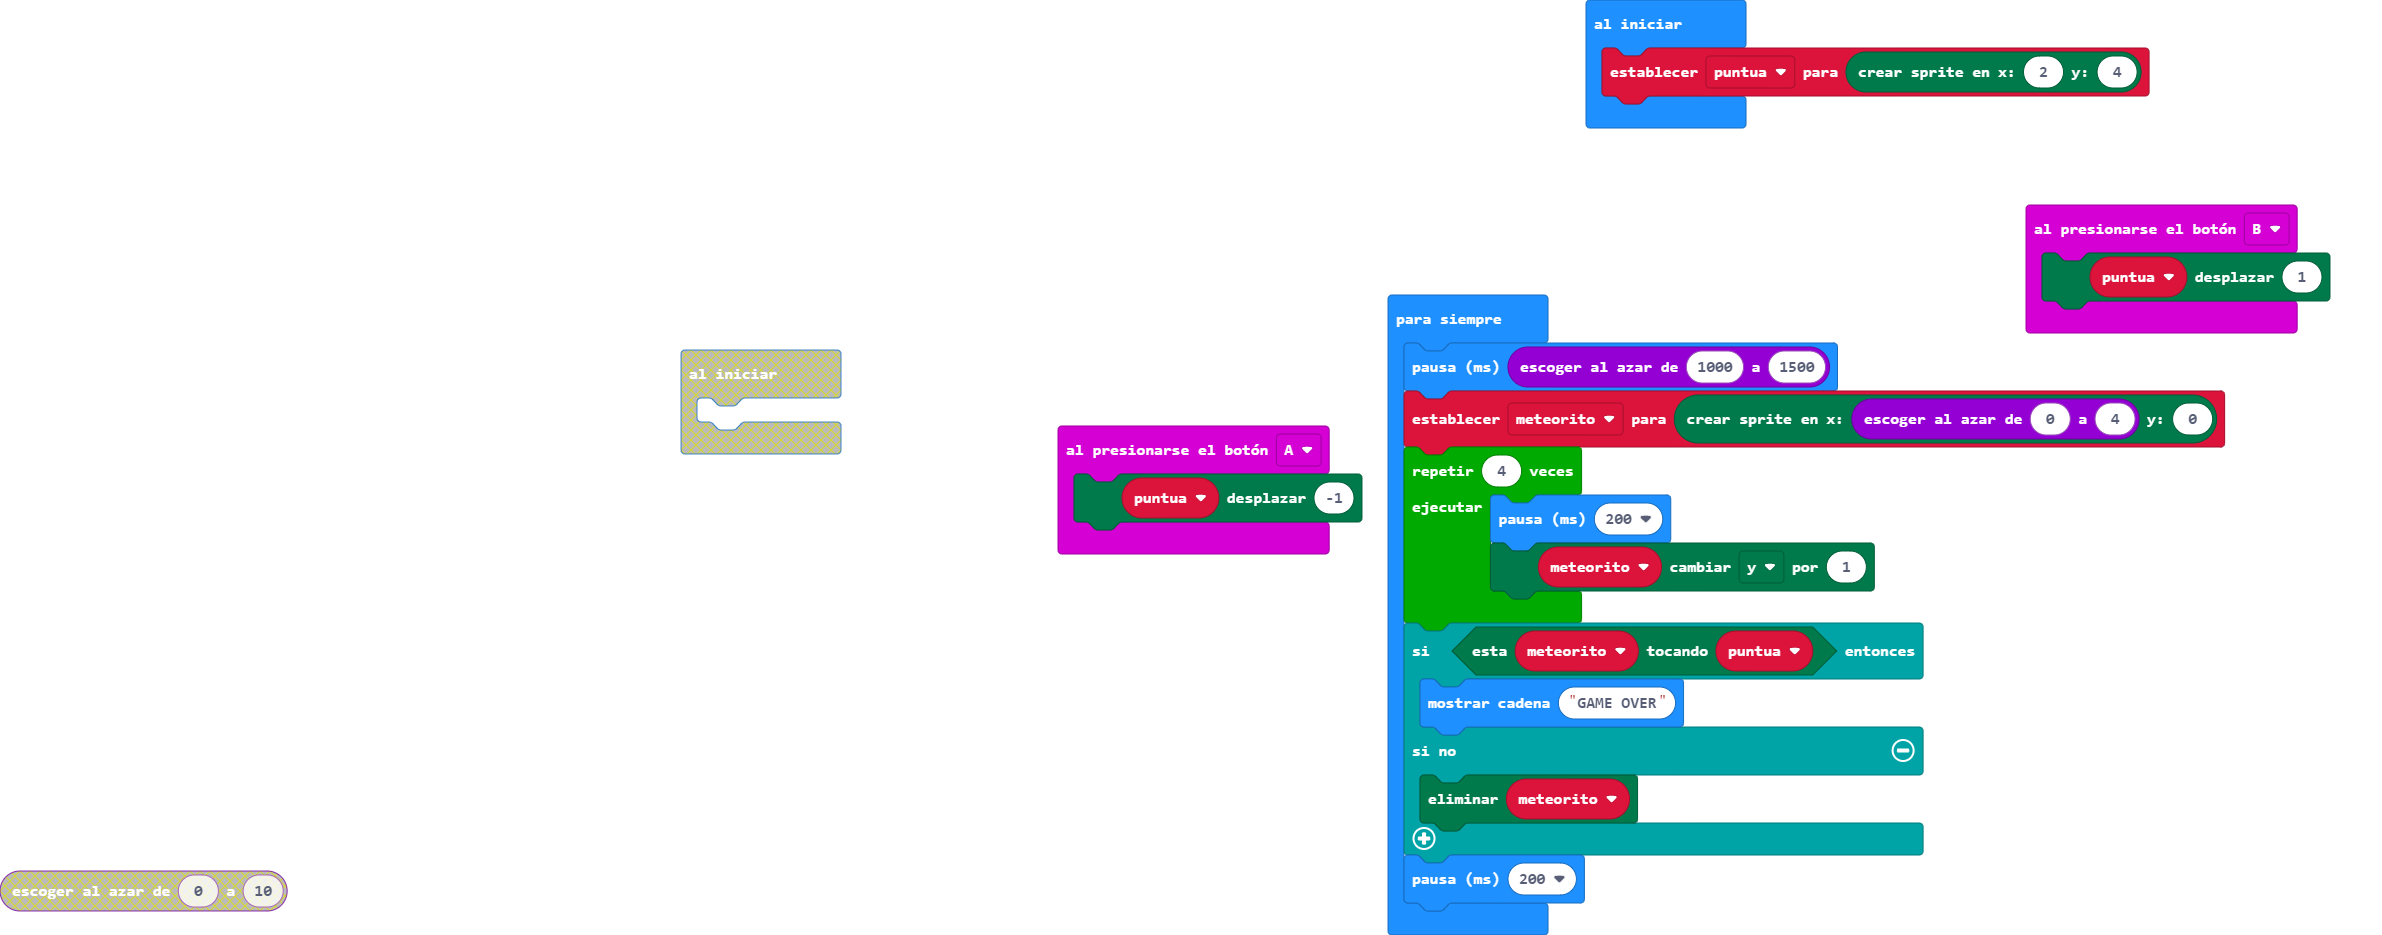
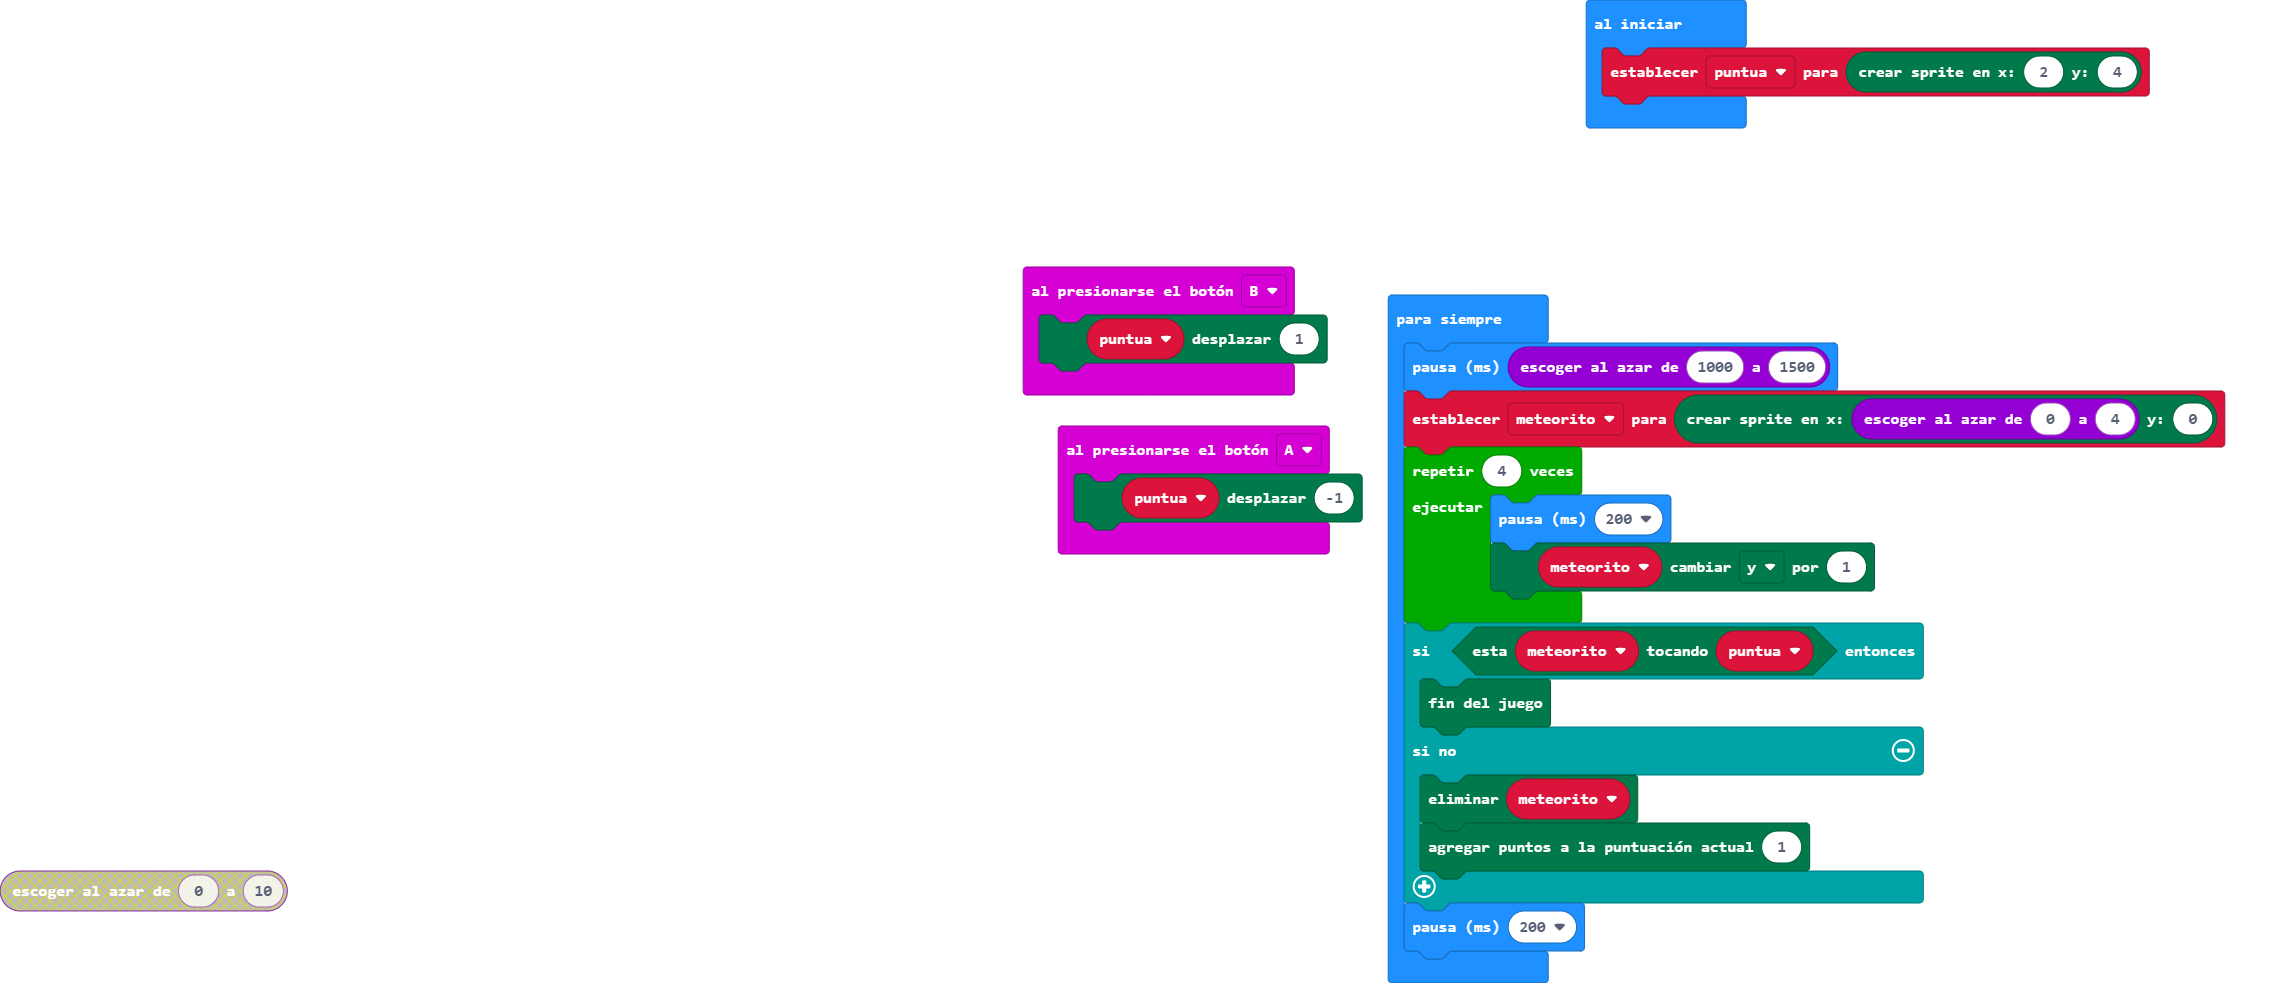
Actualizar main.blocks, main.ts

diff --git a/main.ts b/main.ts
@@ -15,9 +15,10 @@ basic.forever(function () {
         meteorito.change(LedSpriteProperty.Y, 1)
     }
     if (meteorito.isTouching(puntua)) {
-        basic.showString("GAME OVER")
+        game.gameOver()
     } else {
         meteorito.delete()
+        game.addScore(1)
     }
     basic.pause(200)
 })
